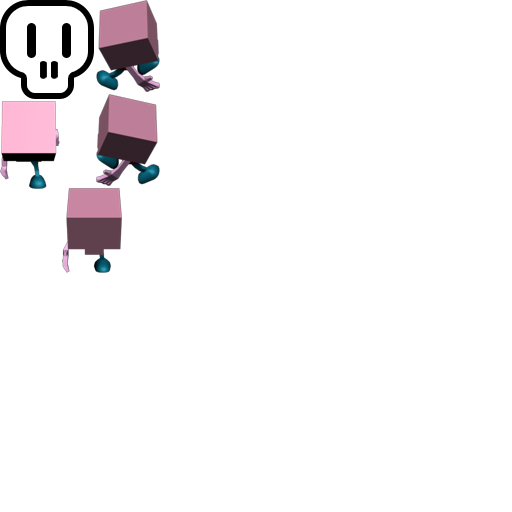
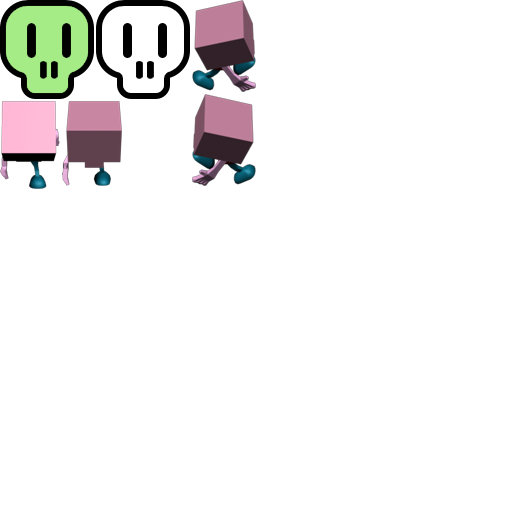
finer state machine for sprties

Changed region(s): [[0.0, 0.0, 0.5, 0.5312]]

diff --git a/z-project/Civilian.mm b/z-project/Civilian.mm
@@ -7,7 +7,6 @@
 //
 
 #import "Civilian.h"
-#import "Constants.h"
 
 static CGFloat const SPEED = 40.f;
 
@@ -16,6 +15,7 @@ static NSString* const FRAME_FACING_RIGHT = @"civilian-right";
 static NSString* const FRAME_FACING_UP = @"civilian-up";
 static NSString* const FRAME_FACING_DOWN = @"civilian-down";
 static NSString* const FRAME_DEAD = @"civilian-dead";
+static NSString* const FRAME_DEAD_INFECTED = @"civilian-dead-infected";
 
 @interface Civilian()
 
@@ -52,12 +52,26 @@ static NSString* const FRAME_DEAD = @"civilian-dead";
     return self;
 }
 
+- (BOOL) isAlive
+{
+    return (self.state == kStateAlive);
+}
+
 - (void) kill
 {
+    self.state = kStateDead;
     [self unschedule:@selector(randomWalk)];
     [self setDisplayFrame:[[CCSpriteFrameCache sharedSpriteFrameCache] spriteFrameByName:FRAME_DEAD]];
     [super kill];
 }
+
+- (void) infect
+{
+    self.state = kStateCivilianDeadInfected;
+    [self unschedule:@selector(randomWalk)];
+    [self setDisplayFrame:[[CCSpriteFrameCache sharedSpriteFrameCache] spriteFrameByName:FRAME_DEAD_INFECTED]];
+}
+
 
 -(void)randomWalk {
     CGFloat angle = CCRANDOM_0_1() * 2 * M_PI;
@@ -67,19 +81,19 @@ static NSString* const FRAME_DEAD = @"civilian-dead";
     
     //select frame from angle
     CCSpriteFrameCache* cache = [CCSpriteFrameCache sharedSpriteFrameCache];
-    if (angle > 7*M_PI_4 || angle < M_PI_4)
+    if (angle > 7*M_PI_4 || angle <= M_PI_4)
     {
         [self setDisplayFrame:[cache spriteFrameByName:FRAME_FACING_RIGHT]];
     }
-    else if (angle < 3*M_PI_4)
+    else if (angle < M_PI_4 && angle <= 3*M_PI_4)
     {
         [self setDisplayFrame:[cache spriteFrameByName:FRAME_FACING_UP]];
     }
-    else if (angle < 5*M_PI_4)
+    else if (angle < 3*M_PI_4 && angle <= 5*M_PI_4)
     {
         [self setDisplayFrame:[cache spriteFrameByName:FRAME_FACING_LEFT]];
     }
-    else if (angle < 3*M_PI_4)
+    else if (angle < 5*M_PI_4 && angle <= 7*M_PI_4)
     {
         [self setDisplayFrame:[cache spriteFrameByName:FRAME_FACING_DOWN]];
     }

diff --git a/z-project/BaseCharacter.mm b/z-project/BaseCharacter.mm
@@ -8,18 +8,8 @@
 
 #import "BaseCharacter.h"
 #import "cocos2d.h"
-#import "Constants.h"
-
-typedef enum
-{
-    kStateAlive = 0,
-    kStateDead
-}
-State;
 
 @interface BaseCharacter ()
-
-@property (nonatomic) State state;
 
 @end
 
@@ -28,9 +18,9 @@ State;
 -(id)initWithSpriteFrameName:(NSString*)frame andTag:(NSInteger)tag; {
     if (self = [super initWithSpriteFrameName:frame]) {
         _properties = [[NSMutableDictionary alloc] init];
-        _state = kStateAlive;
         
         self.tag = tag;
+        self.state = kStateAlive;
         
         [self schedule:@selector(update:)];
     }
@@ -100,13 +90,13 @@ State;
 
 -(void)kill
 {
-    self.state = kStateDead;
     self.zOrder = kZOrderDead;
 }
 
--(BOOL)isAlive
+- (BOOL)isAlive
 {
-    return (_state == kStateAlive);
+    NSAssert(false, @"isAlive should be implemented in this BaseCharacter subclass");
+    return NO;
 }
 
 

diff --git a/z-project/Zombie.mm b/z-project/Zombie.mm
@@ -7,9 +7,8 @@
 //
 
 #import "Zombie.h"
-#import "Constants.h"
 
-static CGFloat const SPEED = 40.f;
+static CGFloat const SPEED = 60.f;
 
 static NSString* const FRAME_FACING_LEFT = @"zombie-left";
 static NSString* const FRAME_FACING_RIGHT = @"zombie-right";
@@ -35,6 +34,7 @@ static NSString* const FRAME_DEAD = @"zombie-dead";
     {
         [self schedule:@selector(randomWalk) interval:2.0f];
         self.zOrder = kZOrderZombie;
+        self.state = kStateAlive;
     }
     return self;
 }
@@ -52,8 +52,15 @@ static NSString* const FRAME_DEAD = @"zombie-dead";
     return self;
 }
 
+- (BOOL) isAlive
+{
+    return (self.state == kStateAlive);
+}
+
 - (void) kill
 {
+    self.state = kStateDead;
+    
     [self unschedule:@selector(randomWalk)];
     [self setDisplayFrame:[[CCSpriteFrameCache sharedSpriteFrameCache] spriteFrameByName:FRAME_DEAD]];
     [super kill];

diff --git a/z-project/GameLayer.mm b/z-project/GameLayer.mm
@@ -88,7 +88,7 @@ static float const PTM_RATIO = 64.0f;
         _zombies = [[NSMutableArray alloc] init];
         _gestureRecognizers = [[NSMutableArray alloc] init];
         
-        for (int i = 0; i < 200; ++i)
+        for (int i = 0; i < 50; ++i)
         {
             [self addCivilian];
         }
@@ -368,7 +368,7 @@ static float const PTM_RATIO = 64.0f;
                 // kill civilian and wake as zombie in 3 seconds
                 if ([civilian isAlive] && [zombie isAlive])
                 {
-                    [civilian kill];
+                    [civilian infect];
                     CCDelayTime* delayAction = [CCDelayTime actionWithDuration:3];
                     CCCallBlock* blockAction = [CCCallBlock actionWithBlock:^(void)
                                                 {

diff --git a/z-project/Constants.h b/z-project/Constants.h
@@ -21,6 +21,21 @@ typedef enum
 }
 ZOrder;
 
+typedef enum
+{
+    // common states
+    kStateAlive = 0,
+    kStateDead,
+    
+    //zombie states
+    kStateZombieEating,
+    
+    //civilian states
+    kStateCivilianBeingEaten,
+    kStateCivilianDeadInfected,
+}
+State;
+
 #define kMinimapSpriteKey @"MiniMapSprite"
 #define kMinimapImageKey @"ImageForMiniMap"
 #define kMinimapSpriteForCivilian @"icon_civilian.png"

diff --git a/z-project/BaseCharacter.h b/z-project/BaseCharacter.h
@@ -7,11 +7,13 @@
 //
 
 #import "CCSprite.h"
+#import "Constants.h"
 
 @interface BaseCharacter : CCSprite
 
 @property (nonatomic, assign) CGPoint velocity;
 @property (nonatomic,retain) NSMutableDictionary* properties;
+@property (nonatomic) State state;
 
 // helpers for edges
 @property (nonatomic, readonly) CGFloat left;

diff --git a/z-project/Civilian.h b/z-project/Civilian.h
@@ -15,6 +15,7 @@
 
 
 -(Civilian*)initWithPosition:(CGPoint)position;
+-(void)infect;
 -(void)randomWalk;
 
 @end
